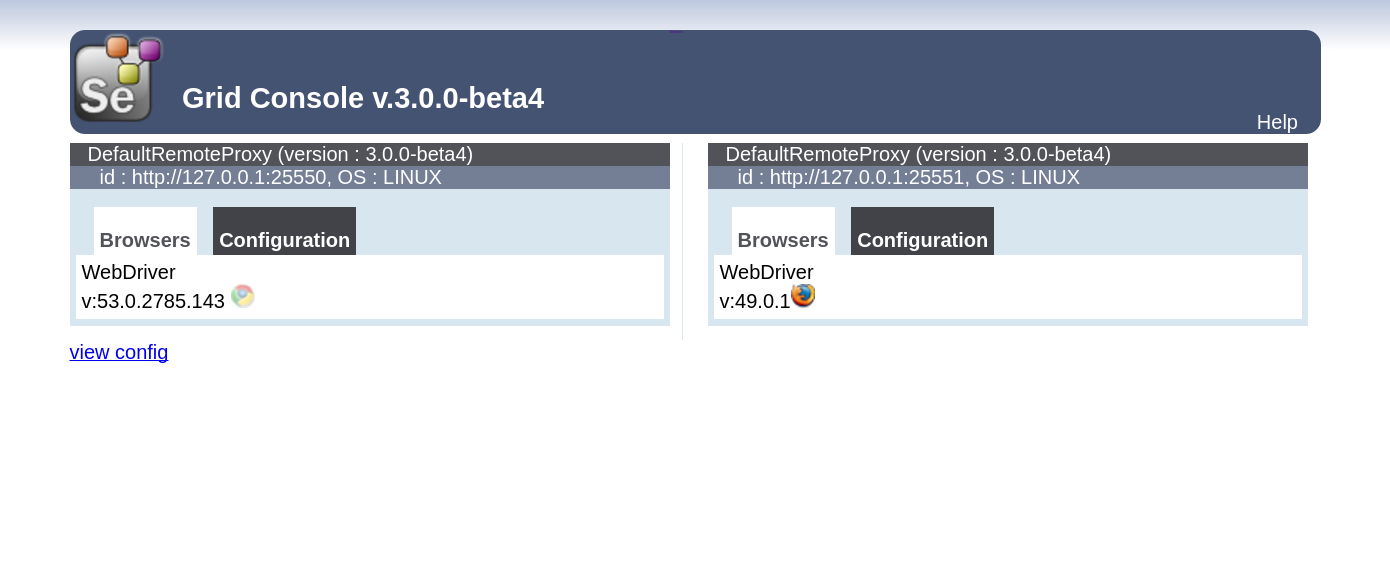
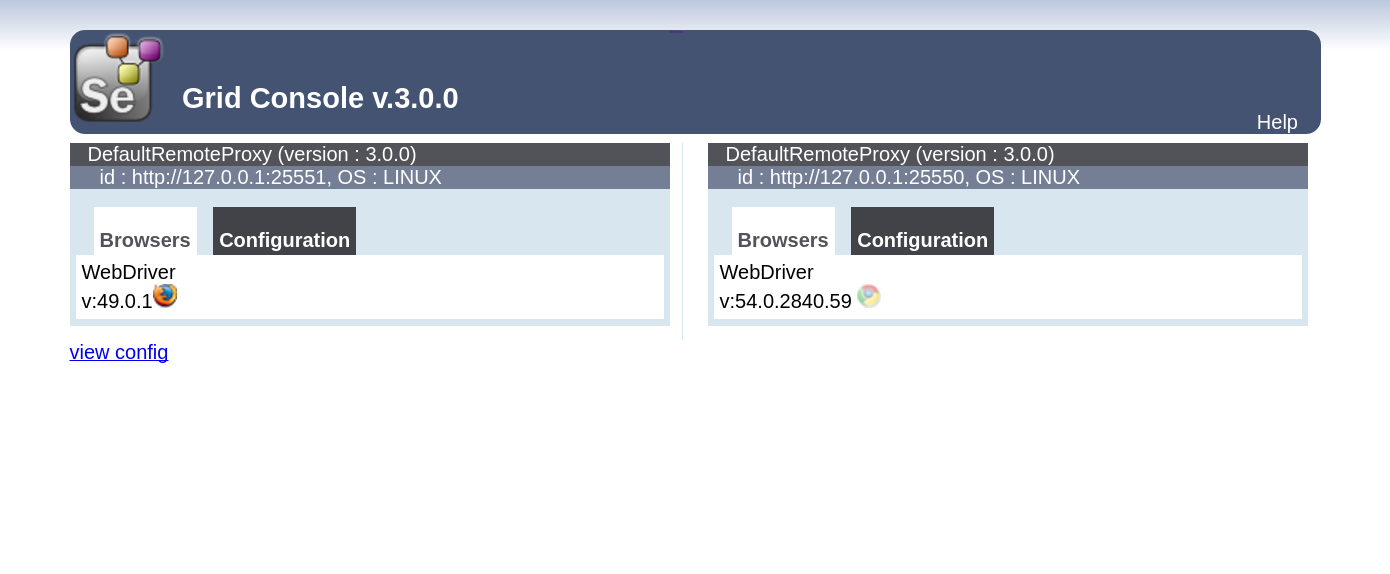
Selenium 3 stable & Chrome 54.0.2840.59

Changed region(s): [[0.0309, 0.0592, 0.959, 0.6516]]

diff --git a/test/python_test.py b/test/python_test.py
@@ -31,11 +31,13 @@ elif args.browser == 'mobile_emulation':
     caps = opts.to_capabilities()
 elif args.browser == 'firefox':
     caps = DesiredCapabilities.FIREFOX
-    if current_selenium == '3':
+    # if current_selenium == '3':
         # BREAKING CHANGE!
         #  With selenium 3 & Firfox >= 48 you need to set marionette=true
         #  when still using selenium 2 driver bindings (in selenium 3 is transparent)
-        caps['marionette'] = True
+        # UPDATE! no longer needed since selenium 3.0.1 is now the stable version:
+        #  https://pypi.python.org/pypi/selenium
+        # caps['marionette'] = True
 else:
     raise ValueError("Invalid browser '%s'" % args.browser)
 
@@ -80,7 +82,7 @@ def check_hub_title():
     assert "Grid Console" in driver.title
 
 if args.browser == 'chrome':
-    driver.set_window_size(1400, 670)
+    driver.set_window_size(1400, 660)
     # Selenium grid console - open
     open_hub_page()
     time.sleep(msleep)

diff --git a/CONTRIBUTING.md b/CONTRIBUTING.md
@@ -7,18 +7,18 @@ For pull requests or local commits:
     docker exec grid versions && ./test/after_script && travis lint
     open ./images/grid2_console.png && open ./images/grid3_console.png && open ./videos/mobile_emulation/*.mkv
     open test/seleIDE/videos/rc/sele_ide.mkv
-    git checkout -b tmp-3.0.0b4b && git checkout ./images/grid2_console.png && git checkout ./images/grid3_console.png
+    git checkout -b tmp-3.0.0c && git checkout ./images/grid2_console.png && git checkout ./images/grid3_console.png
     #git add ... git commit ... git push ... open pull request
 
 For repository owners only:
 
-    git commit -m "Support Selenium IDE tests"
-    git tag -d latest && git tag 3.0.0b4b && git push origin tmp-3.0.0b4b && git push --tags
+    git commit -m "Selenium 3 stable & Chrome 54.0.2840.59"
+    git tag -d latest && git tag 3.0.0c && git push origin tmp-3.0.0c && git push --tags
 
 -- Wait for Travis to pass OK
 -- Make sure changes got merged into master by elgalubot
 
-    git checkout master && git pull && git branch -d tmp-3.0.0b4b && git push origin --delete tmp-3.0.0b4b
+    git checkout master && git pull && git branch -d tmp-3.0.0c && git push origin --delete tmp-3.0.0c
 
 -- Re-add TBD_* section in CHANGELOG.md starting with TBD_DOCKER_TAG
 -- If Chrome version changed upload:
@@ -28,7 +28,7 @@ For repository owners only:
 ### Chrome artifact
 Keep certain bins if chrome version changed for example:
 
-    cd ~/tmp_binaries && VER="53.0.2785.143" && NAME="google-chrome-stable_${VER}_amd64" && echo ${NAME}
+    cd ~/tmp_binaries && VER="54.0.2840.59" && NAME="google-chrome-stable_${VER}_amd64" && echo ${NAME}
     wget -nv --show-progress -O ${NAME}.deb "https://dl.google.com/linux/direct/google-chrome-stable_current_amd64.deb"
     md5sum ${NAME}.deb > ${NAME}.md5 && shasum ${NAME}.deb > ${NAME}.sha
     cp ${NAME}.md5 ${NAME}.sha ~/dosel/binaries
@@ -36,9 +36,9 @@ Keep certain bins if chrome version changed for example:
 ## Retry
 Failed in Travis? retry
 
-    git tag -d 3.0.0b4b && git push origin :3.0.0b4b
+    git tag -d 3.0.0c && git push origin :3.0.0c
     #git add ...
-    git commit --amend && git tag 3.0.0b4b && git push --force origin tmp-3.0.0b4b && git push --tags
+    git commit --amend && git tag 3.0.0c && git push --force origin tmp-3.0.0c && git push --tags
 
 ## Docker push from Travis CI
 Travis [steps](https://docs.travis-ci.com/user/docker/#Pushing-a-Docker-Image-to-a-Registry) involve `docker login` and docker credentials encryptions.

diff --git a/CHANGELOG.md b/CHANGELOG.md
@@ -7,6 +7,40 @@ Note image ids also change after scm-source.json has being updated which trigger
 ###### To get container versions
     docker exec grid versions
 
+## TBD_DOCKER_TAG
+ + Date: TBD_DATE
+ + Upgrade Selenium to stable 3.0.0 (was beta)
+ + Upgrade Chrome major to 54.0.2840.59
+ + Upgrade Geckodriver from 0.10.0 to 0.11.1
+ + Upgrade Ubuntu xenial to 20161010
+ + Fix #124 Incorrect screen resolution
+ + Fix #125 Through requirements-sele-2.txt and requirements-sele-3.txt
+ + Upgrade supervisord 4.0.0 commit to 2015-10-09
+ + Remove /usr/bin/wires as is no longer used
+ + Image tag details:
+  + Selenium 2: TBD_SELENIUM_2_VERSION (TBD_SELENIUM_2_REVISION)
+  + Selenium 3: 3.0.0 (350cf60)
+  + Chrome stable:  TBD_CHROME_STABLE
+  + Firefox for Selenium 2: TBD_FIREFOX_FOR_SEL2
+  + Firefox for Selenium 3: TBD_FIREFOX_FOR_SEL3
+  + Geckodriver: TBD_GECKO_DRIVER
+  + Chromedriver: TBD_CHROME_DRIVER (TBD_CHROMEDRIVER_COMMIT)
+  + Java: TBD_JAVA_VENDOR Java TBD_JAVA_BUILD
+  + Timezone: TBD_TIME_ZONE
+  + FROM ubuntu:UBUNTU_FLAVOR-UBUNTU_DATE
+  + Python: TBD_PYTHON_VERSION
+  + Sauce Connect TBD_SAUCE_CONNECT_VERS, build TBD_SAUCE_CONNECT_BUILD TBD_SAUCE_CONNECT_REVISION
+  + BrowserStack Local version TBD_BROWSER_STACK_VERSION
+  + Tested on kernel dev host: 4.4.0-43-generic x86_64
+  + Tested on kernel CI  host: TBD_HOST_UNAME
+  + Built at dev host with: Docker version 1.12.2, build bb80604
+  + Built at CI  host with: Docker version TBD_DOCKER_VERS, build TBD_DOCKER_BUILD
+  + Built at dev host with: Docker Compose version 1.8.1, build 878cff1
+  + Built at CI  host with: Docker Compose version TBD_DOCKER_COMPOSE_VERS, build TBD_DOCKER_COMPOSE_BUILD
+  + Image size: TBD_IMAGE_SIZE
+  + Digest: TBD_DIGEST
+  + Image ID: TBD_IMAGE_ID
+
 ## 3.0.0b4b
  + Date: 2016-10-07
  + Support Selenium IDE tests

diff --git a/TBD_DOCKER_TAG.md b/TBD_DOCKER_TAG.md
@@ -3,7 +3,7 @@
  + TBD_COMMIT_MSG
  + Image tag details:
   + Selenium 2: TBD_SELENIUM_2_VERSION (TBD_SELENIUM_2_REVISION)
-  + Selenium 3: 3.0.0-beta4 (3169782)
+  + Selenium 3: 3.0.0 (350cf60)
   + Chrome stable:  TBD_CHROME_STABLE
   + Firefox for Selenium 2: TBD_FIREFOX_FOR_SEL2
   + Firefox for Selenium 3: TBD_FIREFOX_FOR_SEL3
@@ -15,11 +15,11 @@
   + Python: TBD_PYTHON_VERSION
   + Sauce Connect TBD_SAUCE_CONNECT_VERS, build TBD_SAUCE_CONNECT_BUILD TBD_SAUCE_CONNECT_REVISION
   + BrowserStack Local version TBD_BROWSER_STACK_VERSION
-  + Tested on kernel dev host: 4.4.0-38-generic x86_64
+  + Tested on kernel dev host: 4.4.0-43-generic x86_64
   + Tested on kernel CI  host: TBD_HOST_UNAME
-  + Built at dev host with: Docker version 1.12.1, build 23cf638
+  + Built at dev host with: Docker version 1.12.2, build bb80604
   + Built at CI  host with: Docker version TBD_DOCKER_VERS, build TBD_DOCKER_BUILD
-  + Built at dev host with: Docker Compose version 1.8.0, build f3628c7
+  + Built at dev host with: Docker Compose version 1.8.1, build 878cff1
   + Built at CI  host with: Docker Compose version TBD_DOCKER_COMPOSE_VERS, build TBD_DOCKER_COMPOSE_BUILD
   + Image size: TBD_IMAGE_SIZE
   + Digest: TBD_DIGEST
